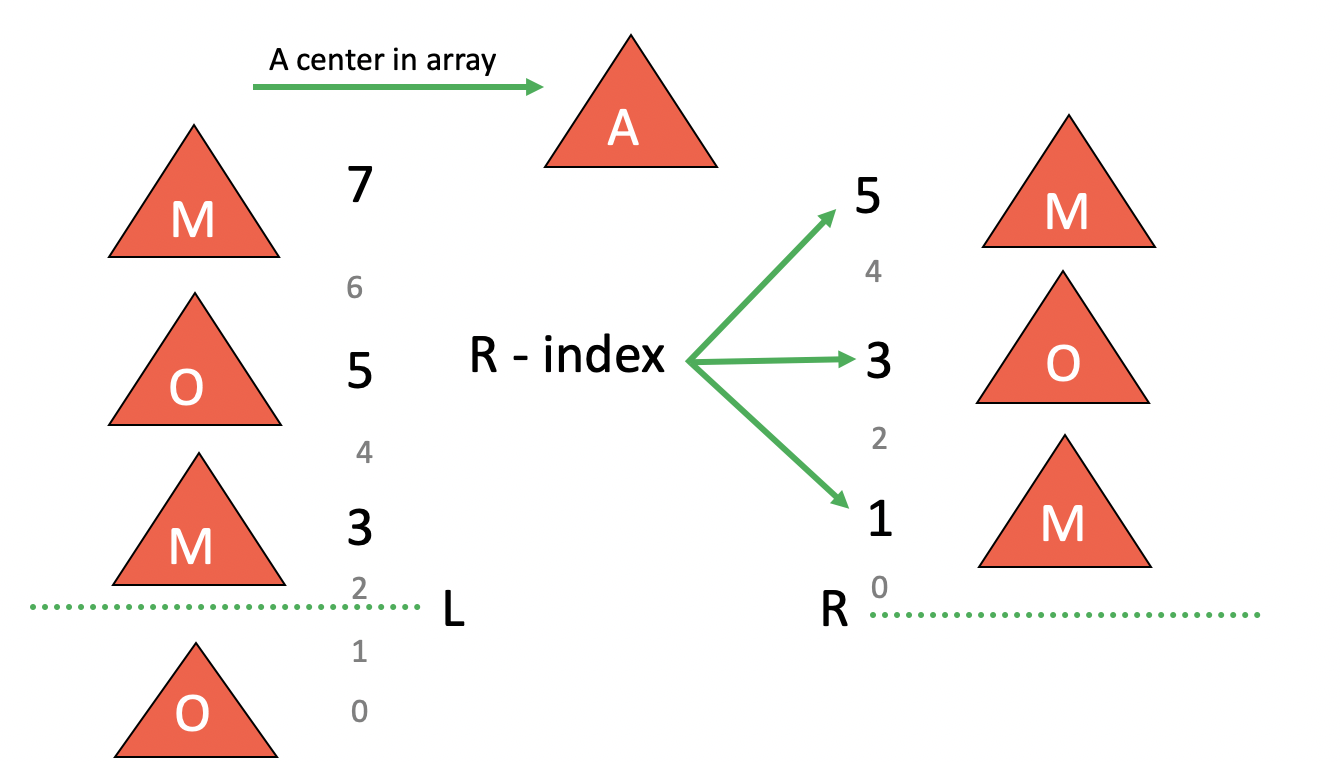
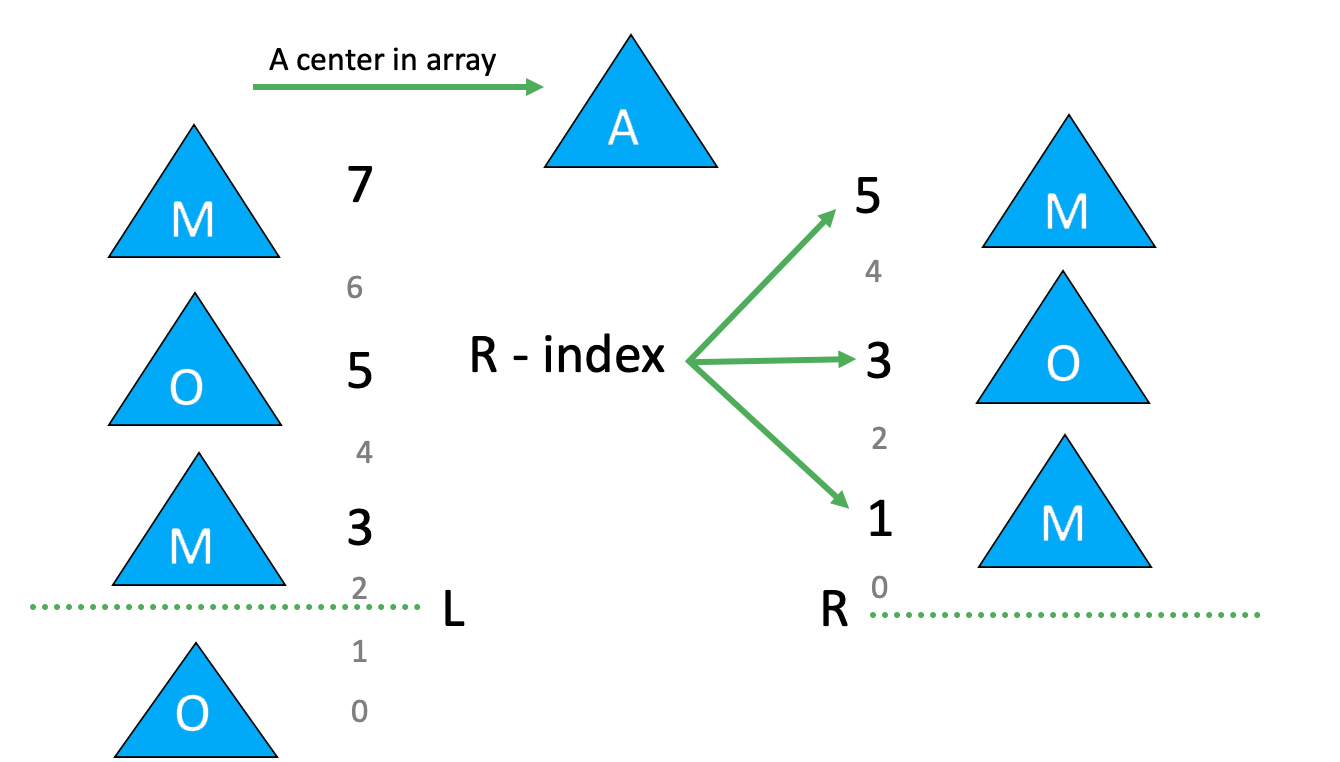
Changed colors in figures and made background more aesthetic.

diff --git a/index.html b/index.html
@@ -67,7 +67,10 @@
 				</div>
 			</div>
 		</div>
-						
+
+		<div class="container" id="InfoContain">
+				<div class="row">
+						<div class="col-lg">
 						<div class="flip-card">
 								<div class="flip-card-inner">
 									<div class="flip-card-front">
@@ -81,7 +84,9 @@
 									</div>
 								</div>
 							</div>
-
+							</div>
+							
+						<div class="col-lg">
 							<div class="flip-card" id="secondFlip">
 									<div class="flip-card-inner">
 										<div class="flip-card-front">
@@ -95,7 +100,9 @@
 										</div>
 									</div>
 								</div>
+							</div>
 
+						<div class="col-lg">
 								<div class="flip-card" id="thirdFlip">
 										<div class="flip-card-inner">
 											<div class="flip-card-front">
@@ -110,6 +117,9 @@
 											</div>
 										</div>
 									</div>
+						</div>
+					</div>
+		</div>
 
 		<!-- <input type="text" name="input" id="input_string">
 		<button id="confirm" onclick="process()">Enter</button>

diff --git a/style.css b/style.css
@@ -11,7 +11,7 @@ li {
 }
 
 body {
-	background-image: url("images/background.png");
+	background-image: url("images/backgroundUpdate.png");
 }
 
 .jumbotron {
@@ -139,15 +139,15 @@ footer {
   }
 
   #secondFlip {
-	  position: relative;
+	  /* position: relative;
 	  left: 20em;
-	  bottom: 268px;
+	  bottom: 268px; */
   }
 
   #thirdFlip {
-	position: relative;
+	/* position: relative;
 	left: 40em;
-	bottom: 540px;
+	bottom: 540px; */
 }
 
   #secondFlip .flip-card-front {
